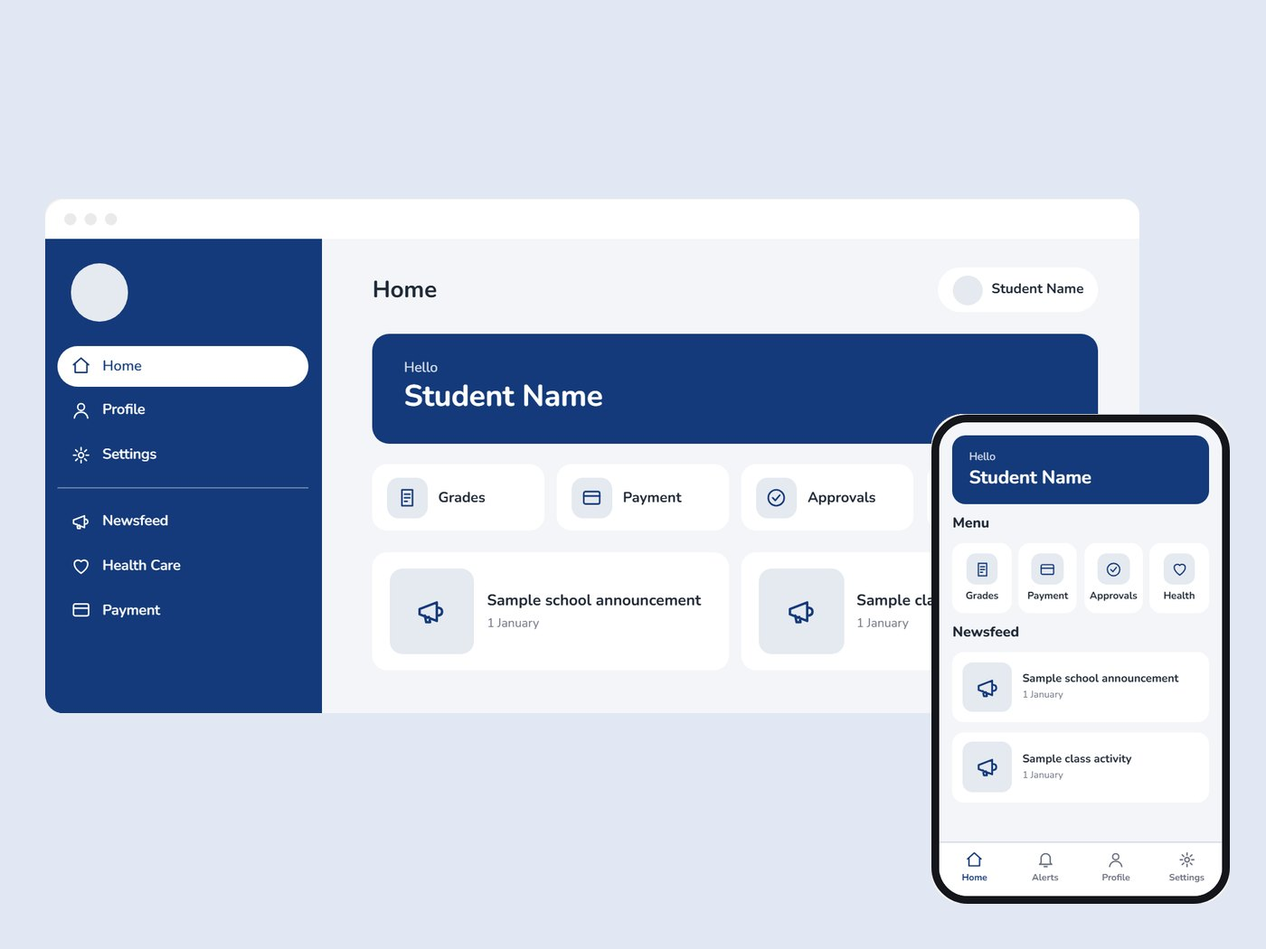
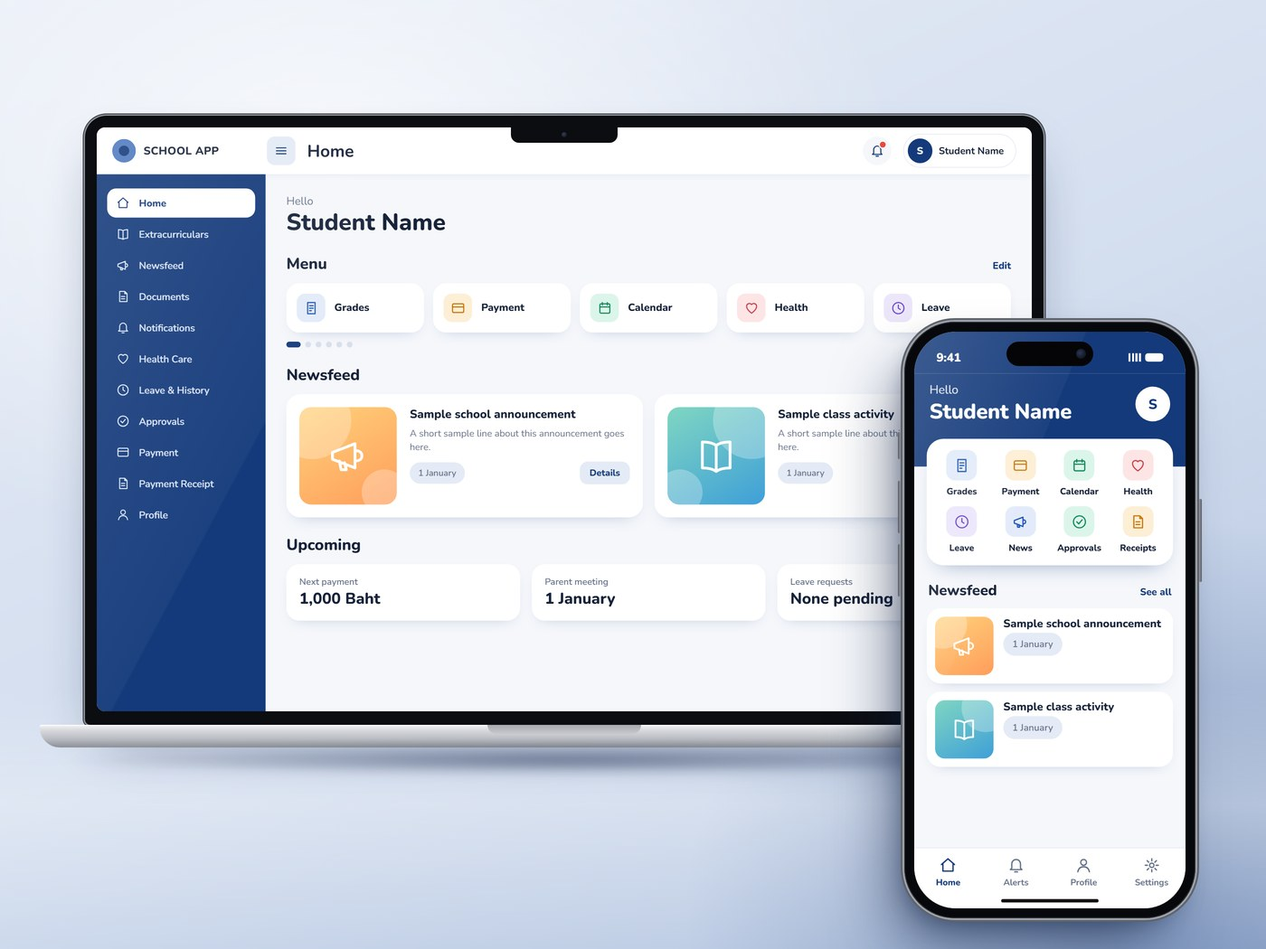
Add realistic school app cover and reorder work by visual appeal

diff --git a/jeeno-portfolio/index.html b/jeeno-portfolio/index.html
@@ -365,10 +365,145 @@
 
     <div class="work-grid">
 
+      <a class="work-card reveal" href="work/easy-parking.html" style="--acc: var(--leaf)">
+        <div class="work-thumb">
+          <img src="assets/work-easy-parking.jpg" alt="Easy Parking app screens" />
+          <video class="work-video" src="assets/video/ep-card.mp4" poster="assets/video/ep-card-poster.jpg"
+                 muted loop playsinline preload="none" aria-hidden="true"></video>
+          <span class="work-preview-badge" data-en="Live preview" data-th="ตัวอย่างเคลื่อนไหว">Live preview</span>
+          <span class="work-index">01</span>
+        </div>
+        <div class="work-card-body">
+          <div class="work-card-top">
+            <span class="tag" data-en="Mobile App · UX Research" data-th="แอปมือถือ · UX Research">Mobile App · UX Research</span>
+            <span class="arrow">↗</span>
+          </div>
+          <h3 data-en="Easy Parking — Book Before You Park" data-th="Easy Parking — จองก่อนจอด">Easy Parking — Book Before You Park</h3>
+          <p data-en="A parking-reservation app concept built from real user research — quantitative surveys and interviews shaped a booking, payment, and live-tracking flow end to end." data-th="แอปจองที่จอดรถที่ออกแบบจากงานวิจัยผู้ใช้จริง ทั้งแบบสอบถามและสัมภาษณ์ นำไปสู่ Flow การจอง จ่ายเงิน และติดตามที่จอดแบบครบวงจร">
+            A parking-reservation app concept built from real user research — quantitative surveys and interviews shaped a booking, payment, and live-tracking flow end to end.
+          </p>
+          <span class="confidential-note" data-en="Self-directed UX case study — concept exploration" data-th="เคสศึกษาที่ทำขึ้นเอง — โปรเจกต์สำรวจแนวคิด">Self-directed UX case study — concept exploration</span>
+          <span class="work-cta">
+            <span data-en="Read case study" data-th="อ่านเคสสตัดี้">Read case study</span>
+            <span class="work-cta-arrow">&#8594;</span>
+          </span>
+        </div>
+      </a>
+
+      <a class="work-card reveal" href="work/gym-scan.html" style="--acc: var(--mist-deep)">
+        <div class="work-thumb">
+          <img src="assets/work-gym.jpg" alt="Yim Ngai gym app: workout, home, and summary screens" />
+          <span class="work-index">02</span>
+        </div>
+        <div class="work-card-body">
+          <div class="work-card-top">
+            <span class="tag" data-en="Mobile Web App · Design Concept" data-th="เว็บแอปมือถือ · แนวคิดการออกแบบ">Mobile Web App · Design Concept</span>
+            <span class="arrow">↗</span>
+          </div>
+          <h3 data-en="Yim Ngai — Scan a Gym Machine, Keep Going" data-th="ยิมง่าย — สแกนเครื่องในยิม แล้วเล่นต่อได้">Yim Ngai — Scan a Gym Machine, Keep Going</h3>
+          <p data-en="Photograph a machine to learn how to use it, then let each visit set up the next: last weights, next-time advice, and a program that adjusts." data-th="ถ่ายรูปเครื่องเพื่อดูวิธีเล่น แล้วให้แต่ละครั้งเตรียมครั้งต่อไปไว้ ทั้งน้ำหนักครั้งก่อน คำแนะนำครั้งหน้า และโปรแกรมที่ปรับตามผลตรวจ">
+            Photograph a machine to learn how to use it, then let each visit set up the next: last weights, next-time advice, and a program that adjusts.
+          </p>
+          <span class="confidential-note" data-en="Personal project — sample data in all screens" data-th="โปรเจกต์ส่วนตัว — ทุกหน้าจอใช้ข้อมูลสมมติ">Personal project — sample data in all screens</span>
+          <span class="work-cta">
+            <span data-en="Read case study" data-th="อ่านเคสสตัดี้">Read case study</span>
+            <span class="work-cta-arrow">&#8594;</span>
+          </span>
+        </div>
+      </a>
+
+      <a class="work-card reveal" href="work/teebadgun.html" style="--acc: var(--sunset)">
+        <div class="work-thumb">
+          <img src="assets/work-teebadgun.jpg" alt="Teebadgun player and organizer screens" />
+          <span class="work-index">03</span>
+        </div>
+        <div class="work-card-body">
+          <div class="work-card-top">
+            <span class="tag" data-en="Mobile Web App · Redesign" data-th="เว็บแอปมือถือ · Redesign">Mobile Web App · Redesign</span>
+            <span class="arrow">↗</span>
+          </div>
+          <h3 data-en="Teebadgun — Badminton Club Redesign" data-th="Teebadgun — รีดีไซน์แอปก๊วนแบด">Teebadgun — Badminton Club Redesign</h3>
+          <p data-en="Rebuilding the player and organizer screens around the court, with the upside and the cost of each design decision laid out." data-th="ออกแบบหน้าจอผู้เล่นและผู้จัดใหม่โดยให้สนามเป็นหัวใจ พร้อมเล่าว่าการตัดสินใจแต่ละจุดได้อะไรและแลกกับอะไร">
+            Rebuilding the player and organizer screens around the court, with the upside and the cost of each design decision laid out.
+          </p>
+          <span class="confidential-note" data-en="Personal project — sample data in all screens" data-th="โปรเจกต์ส่วนตัว — ทุกหน้าจอใช้ข้อมูลสมมติ">Personal project — sample data in all screens</span>
+          <span class="work-cta">
+            <span data-en="Read case study" data-th="อ่านเคสสตัดี้">Read case study</span>
+            <span class="work-cta-arrow">&#8594;</span>
+          </span>
+        </div>
+      </a>
+
+      <a class="work-card reveal" href="work/school-parent-app.html" style="--acc: var(--forest)">
+        <div class="work-thumb">
+          <img src="assets/work-school-app.jpg" alt="School app for parents shown on a laptop and a phone, rebuilt with sample data" />
+          <span class="work-index">04</span>
+        </div>
+        <div class="work-card-body">
+          <div class="work-card-top">
+            <span class="tag" data-en="Web &amp; Mobile · Redesign" data-th="เว็บและมือถือ · Redesign">Web &amp; Mobile · Redesign</span>
+            <span class="arrow">↗</span>
+          </div>
+          <h3 data-en="School App for Parents — A Big Redesign" data-th="ระบบโรงเรียนสำหรับผู้ปกครอง — รีดีไซน์ครั้งใหญ่">School App for Parents — A Big Redesign</h3>
+          <p data-en="A new brand, desktop that matches mobile, and tokens across the system, so the next change takes one edit instead of every screen." data-th="แบรนด์ใหม่ Desktop ที่ตรงกับ Mobile และ Token ทั้งระบบ เพื่อให้การเปลี่ยนครั้งต่อไปแก้ที่จุดเดียว ไม่ต้องไล่แก้ทุกจอ">
+            A new brand, desktop that matches mobile, and tokens across the system, so the next change takes one edit instead of every screen.
+          </p>
+          <span class="confidential-note" data-en="Company work — details withheld, sample data" data-th="งานบริษัท — ปิดข้อมูลจริง ใช้ข้อมูลสมมติ">Company work — details withheld, sample data</span>
+          <span class="work-cta">
+            <span data-en="Read case study" data-th="อ่านเคสสตัดี้">Read case study</span>
+            <span class="work-cta-arrow">&#8594;</span>
+          </span>
+        </div>
+      </a>
+
+      <a class="work-card reveal" href="https://taletails-trade.com" style="--acc: var(--ember)">
+        <div class="work-thumb">
+          <img src="assets/work-taletails.jpg" alt="Taletails vault storage banner" />
+          <span class="work-index">05</span>
+        </div>
+        <div class="work-card-body">
+          <div class="work-card-top">
+            <span class="tag" data-en="Marketplace · Web App" data-th="มาร์เก็ตเพลส · เว็บแอป">Marketplace · Web App</span>
+            <span class="arrow">↗</span>
+          </div>
+          <h3 data-en="Taletails — Card Marketplace &amp; Auctions" data-th="Taletails — ตลาดและประมูลการ์ดสะสม">Taletails — Card Marketplace &amp; Auctions</h3>
+          <p data-en="A live trading-card marketplace with nightly auctions, verified sellers, and vault-grade authentication — designed and built solo end-to-end with Lovable.ai and a Supabase backend." data-th="แพลตฟอร์มตลาดการ์ดสะสมที่มีประมูลสดทุกคืน ผู้ขายยืนยันตัวตน และระบบตรวจสอบ/จัดเก็บแบบห้องนิรภัย ออกแบบและพัฒนาเองทั้งระบบด้วย Lovable.ai และ Supabase">
+            A live trading-card marketplace with nightly auctions, verified sellers, and vault-grade authentication — designed and built solo end-to-end with Lovable.ai and a Supabase backend.
+          </p>
+          <span class="confidential-note" data-en="Live personal project — visit taletails-trade.com" data-th="โปรเจกต์ส่วนตัวที่เปิดใช้งานจริง — เข้าชมได้ที่ taletails-trade.com">Live personal project — visit taletails-trade.com</span>
+          <span class="work-cta">
+            <span data-en="Visit the live site" data-th="เข้าชมเว็บไซต์จริง">Visit the live site</span>
+            <span class="work-cta-arrow">&#8594;</span>
+          </span>
+        </div>
+      </a>
+
+      <a class="work-card reveal" href="work/employee-erp.html" style="--acc: var(--ember)">
+        <div class="work-thumb">
+          <img src="assets/work-erp.jpg" alt="Employee ERP: a rebuilt back-office screen with sample data" />
+          <span class="work-index">06</span>
+        </div>
+        <div class="work-card-body">
+          <div class="work-card-top">
+            <span class="tag" data-en="Enterprise Web · Screen Upgrade" data-th="เว็บองค์กร · ยกระดับจอเก่า">Enterprise Web · Screen Upgrade</span>
+            <span class="arrow">↗</span>
+          </div>
+          <h3 data-en="Employee ERP — New Screens, No Field Lost" data-th="ERP ของพนักงาน — จอใหม่ที่ไม่ทำ Field หาย">Employee ERP — New Screens, No Field Lost</h3>
+          <p data-en="Old Windows back-office screens moved to a web app, with every field kept as it is in the real system and only the layout redesigned." data-th="ย้ายจอหลังบ้านแบบโปรแกรม Windows มาเป็นเว็บแอป โดยคงทุก Field ตามระบบจริง และออกแบบเฉพาะการจัดวางใหม่">
+            Old Windows back-office screens moved to a web app, with every field kept as it is in the real system and only the layout redesigned.
+          </p>
+          <span class="confidential-note" data-en="Company work — details withheld, sample data" data-th="งานบริษัท — ปิดข้อมูลจริง ใช้ข้อมูลสมมติ">Company work — details withheld, sample data</span>
+          <span class="work-cta">
+            <span data-en="Read case study" data-th="อ่านเคสสตัดี้">Read case study</span>
+            <span class="work-cta-arrow">&#8594;</span>
+          </span>
+        </div>
+      </a>
+
       <a class="work-card reveal" href="work/design-system.html" style="--acc: var(--sunset)">
         <div class="work-thumb">
           <img src="assets/work-design-system.jpg" alt="Design system token preview" />
-          <span class="work-index">01</span>
+          <span class="work-index">07</span>
         </div>
         <div class="work-card-body">
           <div class="work-card-top">
@@ -390,7 +525,7 @@
       <a class="work-card reveal" href="work/insurance.html" style="--acc: var(--mist-deep)">
         <div class="work-thumb">
           <img src="assets/work-insurance.jpg" alt="HR Insurance Lookup System screen" />
-          <span class="work-index">02</span>
+          <span class="work-index">08</span>
         </div>
         <div class="work-card-body">
           <div class="work-card-top">
@@ -402,141 +537,6 @@
             An internal HR tool for looking up insured employees — replacing a static report with a fast, permission-aware lookup experience.
           </p>
           <span class="confidential-note" data-en="Confidential client work — renamed for portfolio" data-th="งานลูกค้าที่เป็นความลับ — เปลี่ยนชื่อสำหรับพอร์ตนี้">Confidential client work — renamed for portfolio</span>
-          <span class="work-cta">
-            <span data-en="Read case study" data-th="อ่านเคสสตัดี้">Read case study</span>
-            <span class="work-cta-arrow">&#8594;</span>
-          </span>
-        </div>
-      </a>
-
-      <a class="work-card reveal" href="https://taletails-trade.com" style="--acc: var(--ember)">
-        <div class="work-thumb">
-          <img src="assets/work-taletails.jpg" alt="Taletails vault storage banner" />
-          <span class="work-index">03</span>
-        </div>
-        <div class="work-card-body">
-          <div class="work-card-top">
-            <span class="tag" data-en="Marketplace · Web App" data-th="มาร์เก็ตเพลส · เว็บแอป">Marketplace · Web App</span>
-            <span class="arrow">↗</span>
-          </div>
-          <h3 data-en="Taletails — Card Marketplace &amp; Auctions" data-th="Taletails — ตลาดและประมูลการ์ดสะสม">Taletails — Card Marketplace &amp; Auctions</h3>
-          <p data-en="A live trading-card marketplace with nightly auctions, verified sellers, and vault-grade authentication — designed and built solo end-to-end with Lovable.ai and a Supabase backend." data-th="แพลตฟอร์มตลาดการ์ดสะสมที่มีประมูลสดทุกคืน ผู้ขายยืนยันตัวตน และระบบตรวจสอบ/จัดเก็บแบบห้องนิรภัย ออกแบบและพัฒนาเองทั้งระบบด้วย Lovable.ai และ Supabase">
-            A live trading-card marketplace with nightly auctions, verified sellers, and vault-grade authentication — designed and built solo end-to-end with Lovable.ai and a Supabase backend.
-          </p>
-          <span class="confidential-note" data-en="Live personal project — visit taletails-trade.com" data-th="โปรเจกต์ส่วนตัวที่เปิดใช้งานจริง — เข้าชมได้ที่ taletails-trade.com">Live personal project — visit taletails-trade.com</span>
-          <span class="work-cta">
-            <span data-en="Visit the live site" data-th="เข้าชมเว็บไซต์จริง">Visit the live site</span>
-            <span class="work-cta-arrow">&#8594;</span>
-          </span>
-        </div>
-      </a>
-
-      <a class="work-card reveal" href="work/easy-parking.html" style="--acc: var(--leaf)">
-        <div class="work-thumb">
-          <img src="assets/work-easy-parking.jpg" alt="Easy Parking app screens" />
-          <video class="work-video" src="assets/video/ep-card.mp4" poster="assets/video/ep-card-poster.jpg"
-                 muted loop playsinline preload="none" aria-hidden="true"></video>
-          <span class="work-preview-badge" data-en="Live preview" data-th="ตัวอย่างเคลื่อนไหว">Live preview</span>
-          <span class="work-index">04</span>
-        </div>
-        <div class="work-card-body">
-          <div class="work-card-top">
-            <span class="tag" data-en="Mobile App · UX Research" data-th="แอปมือถือ · UX Research">Mobile App · UX Research</span>
-            <span class="arrow">↗</span>
-          </div>
-          <h3 data-en="Easy Parking — Book Before You Park" data-th="Easy Parking — จองก่อนจอด">Easy Parking — Book Before You Park</h3>
-          <p data-en="A parking-reservation app concept built from real user research — quantitative surveys and interviews shaped a booking, payment, and live-tracking flow end to end." data-th="แอปจองที่จอดรถที่ออกแบบจากงานวิจัยผู้ใช้จริง ทั้งแบบสอบถามและสัมภาษณ์ นำไปสู่ Flow การจอง จ่ายเงิน และติดตามที่จอดแบบครบวงจร">
-            A parking-reservation app concept built from real user research — quantitative surveys and interviews shaped a booking, payment, and live-tracking flow end to end.
-          </p>
-          <span class="confidential-note" data-en="Self-directed UX case study — concept exploration" data-th="เคสศึกษาที่ทำขึ้นเอง — โปรเจกต์สำรวจแนวคิด">Self-directed UX case study — concept exploration</span>
-          <span class="work-cta">
-            <span data-en="Read case study" data-th="อ่านเคสสตัดี้">Read case study</span>
-            <span class="work-cta-arrow">&#8594;</span>
-          </span>
-        </div>
-      </a>
-
-      <a class="work-card reveal" href="work/teebadgun.html" style="--acc: var(--sunset)">
-        <div class="work-thumb">
-          <img src="assets/work-teebadgun.jpg" alt="Teebadgun player and organizer screens" />
-          <span class="work-index">05</span>
-        </div>
-        <div class="work-card-body">
-          <div class="work-card-top">
-            <span class="tag" data-en="Mobile Web App · Redesign" data-th="เว็บแอปมือถือ · Redesign">Mobile Web App · Redesign</span>
-            <span class="arrow">↗</span>
-          </div>
-          <h3 data-en="Teebadgun — Badminton Club Redesign" data-th="Teebadgun — รีดีไซน์แอปก๊วนแบด">Teebadgun — Badminton Club Redesign</h3>
-          <p data-en="Rebuilding the player and organizer screens around the court, with the upside and the cost of each design decision laid out." data-th="ออกแบบหน้าจอผู้เล่นและผู้จัดใหม่โดยให้สนามเป็นหัวใจ พร้อมเล่าว่าการตัดสินใจแต่ละจุดได้อะไรและแลกกับอะไร">
-            Rebuilding the player and organizer screens around the court, with the upside and the cost of each design decision laid out.
-          </p>
-          <span class="confidential-note" data-en="Personal project — sample data in all screens" data-th="โปรเจกต์ส่วนตัว — ทุกหน้าจอใช้ข้อมูลสมมติ">Personal project — sample data in all screens</span>
-          <span class="work-cta">
-            <span data-en="Read case study" data-th="อ่านเคสสตัดี้">Read case study</span>
-            <span class="work-cta-arrow">&#8594;</span>
-          </span>
-        </div>
-      </a>
-
-      <a class="work-card reveal" href="work/gym-scan.html" style="--acc: var(--mist-deep)">
-        <div class="work-thumb">
-          <img src="assets/work-gym.jpg" alt="Yim Ngai gym app: workout, home, and summary screens" />
-          <span class="work-index">06</span>
-        </div>
-        <div class="work-card-body">
-          <div class="work-card-top">
-            <span class="tag" data-en="Mobile Web App · Design Concept" data-th="เว็บแอปมือถือ · แนวคิดการออกแบบ">Mobile Web App · Design Concept</span>
-            <span class="arrow">↗</span>
-          </div>
-          <h3 data-en="Yim Ngai — Scan a Gym Machine, Keep Going" data-th="ยิมง่าย — สแกนเครื่องในยิม แล้วเล่นต่อได้">Yim Ngai — Scan a Gym Machine, Keep Going</h3>
-          <p data-en="Photograph a machine to learn how to use it, then let each visit set up the next: last weights, next-time advice, and a program that adjusts." data-th="ถ่ายรูปเครื่องเพื่อดูวิธีเล่น แล้วให้แต่ละครั้งเตรียมครั้งต่อไปไว้ ทั้งน้ำหนักครั้งก่อน คำแนะนำครั้งหน้า และโปรแกรมที่ปรับตามผลตรวจ">
-            Photograph a machine to learn how to use it, then let each visit set up the next: last weights, next-time advice, and a program that adjusts.
-          </p>
-          <span class="confidential-note" data-en="Personal project — sample data in all screens" data-th="โปรเจกต์ส่วนตัว — ทุกหน้าจอใช้ข้อมูลสมมติ">Personal project — sample data in all screens</span>
-          <span class="work-cta">
-            <span data-en="Read case study" data-th="อ่านเคสสตัดี้">Read case study</span>
-            <span class="work-cta-arrow">&#8594;</span>
-          </span>
-        </div>
-      </a>
-
-      <a class="work-card reveal" href="work/school-parent-app.html" style="--acc: var(--forest)">
-        <div class="work-thumb">
-          <img src="assets/work-school-app.jpg" alt="School app for parents: rebuilt desktop and mobile screens with sample data" />
-          <span class="work-index">07</span>
-        </div>
-        <div class="work-card-body">
-          <div class="work-card-top">
-            <span class="tag" data-en="Web &amp; Mobile · Redesign" data-th="เว็บและมือถือ · Redesign">Web &amp; Mobile · Redesign</span>
-            <span class="arrow">↗</span>
-          </div>
-          <h3 data-en="School App for Parents — A Big Redesign" data-th="ระบบโรงเรียนสำหรับผู้ปกครอง — รีดีไซน์ครั้งใหญ่">School App for Parents — A Big Redesign</h3>
-          <p data-en="A new brand, desktop that matches mobile, and tokens across the system, so the next change takes one edit instead of every screen." data-th="แบรนด์ใหม่ Desktop ที่ตรงกับ Mobile และ Token ทั้งระบบ เพื่อให้การเปลี่ยนครั้งต่อไปแก้ที่จุดเดียว ไม่ต้องไล่แก้ทุกจอ">
-            A new brand, desktop that matches mobile, and tokens across the system, so the next change takes one edit instead of every screen.
-          </p>
-          <span class="confidential-note" data-en="Company work — details withheld, sample data" data-th="งานบริษัท — ปิดข้อมูลจริง ใช้ข้อมูลสมมติ">Company work — details withheld, sample data</span>
-          <span class="work-cta">
-            <span data-en="Read case study" data-th="อ่านเคสสตัดี้">Read case study</span>
-            <span class="work-cta-arrow">&#8594;</span>
-          </span>
-        </div>
-      </a>
-
-      <a class="work-card reveal" href="work/employee-erp.html" style="--acc: var(--ember)">
-        <div class="work-thumb">
-          <img src="assets/work-erp.jpg" alt="Employee ERP: a rebuilt back-office screen with sample data" />
-          <span class="work-index">08</span>
-        </div>
-        <div class="work-card-body">
-          <div class="work-card-top">
-            <span class="tag" data-en="Enterprise Web · Screen Upgrade" data-th="เว็บองค์กร · ยกระดับจอเก่า">Enterprise Web · Screen Upgrade</span>
-            <span class="arrow">↗</span>
-          </div>
-          <h3 data-en="Employee ERP — New Screens, No Field Lost" data-th="ERP ของพนักงาน — จอใหม่ที่ไม่ทำ Field หาย">Employee ERP — New Screens, No Field Lost</h3>
-          <p data-en="Old Windows back-office screens moved to a web app, with every field kept as it is in the real system and only the layout redesigned." data-th="ย้ายจอหลังบ้านแบบโปรแกรม Windows มาเป็นเว็บแอป โดยคงทุก Field ตามระบบจริง และออกแบบเฉพาะการจัดวางใหม่">
-            Old Windows back-office screens moved to a web app, with every field kept as it is in the real system and only the layout redesigned.
-          </p>
-          <span class="confidential-note" data-en="Company work — details withheld, sample data" data-th="งานบริษัท — ปิดข้อมูลจริง ใช้ข้อมูลสมมติ">Company work — details withheld, sample data</span>
           <span class="work-cta">
             <span data-en="Read case study" data-th="อ่านเคสสตัดี้">Read case study</span>
             <span class="work-cta-arrow">&#8594;</span>

diff --git a/jeeno-portfolio/CLAUDE.md b/jeeno-portfolio/CLAUDE.md
@@ -25,13 +25,13 @@ conventions to keep, and what is still open.
 ```
 index.html                 home: hero, photo marquee, about, skills, AI workflow, work grid, experience, contact
 work/pos.html              hidden: the owner pulled it from the site, no links point here, noindex; kept so it can return after a redesign
-work/design-system.html    case study 01 — Design System / token architecture
-work/insurance.html        case study 02 — HR Insurance Lookup System
-work/easy-parking.html     case study 04 — Easy Parking (the most developed one)
-work/teebadgun.html        case study 05 — Teebadgun redesign (built around decisions and trade-offs, see §4)
-work/gym-scan.html         case study 06 — Yim Ngai gym scan app (design concept and continuity, see §4)
-work/school-parent-app.html case study 07 — school app for parents, company work with real details withheld (see §4)
-work/employee-erp.html      case study 08 — employee ERP, old Windows screens to web app, company work with real details withheld (see §4)
+work/design-system.html    case study 07 — Design System / token architecture
+work/insurance.html        case study 08 — HR Insurance Lookup System
+work/easy-parking.html     case study 01 — Easy Parking (the most developed one)
+work/teebadgun.html        case study 03 — Teebadgun redesign (built around decisions and trade-offs, see §4)
+work/gym-scan.html         case study 02 — Yim Ngai gym scan app (design concept and continuity, see §4)
+work/school-parent-app.html case study 04 — school app for parents, company work with real details withheld (see §4)
+work/employee-erp.html      case study 06 — employee ERP, old Windows screens to web app, company work with real details withheld (see §4)
 css/style.css              base tokens + home page
 css/case-study.css         everything prefixed .cs-* (case-study pages)
 js/main.js                 all behaviour, one IIFE, one init function per feature
@@ -43,7 +43,8 @@ assets/video/              looping prototype clips + their poster frames
 tools/build_flow_clip.py   generates the clips in assets/video/ (see §7)
 ```
 
-Card 03 in the work grid is **Taletails**, which links out to
+The owner wants the most attractive work first, so the work grid runs by visual appeal, not by date.
+Card 05 in the work grid is **Taletails**, which links out to
 `https://taletails-trade.com` — it has no local case-study page.
 
 ## 3. Bilingual system (important)
